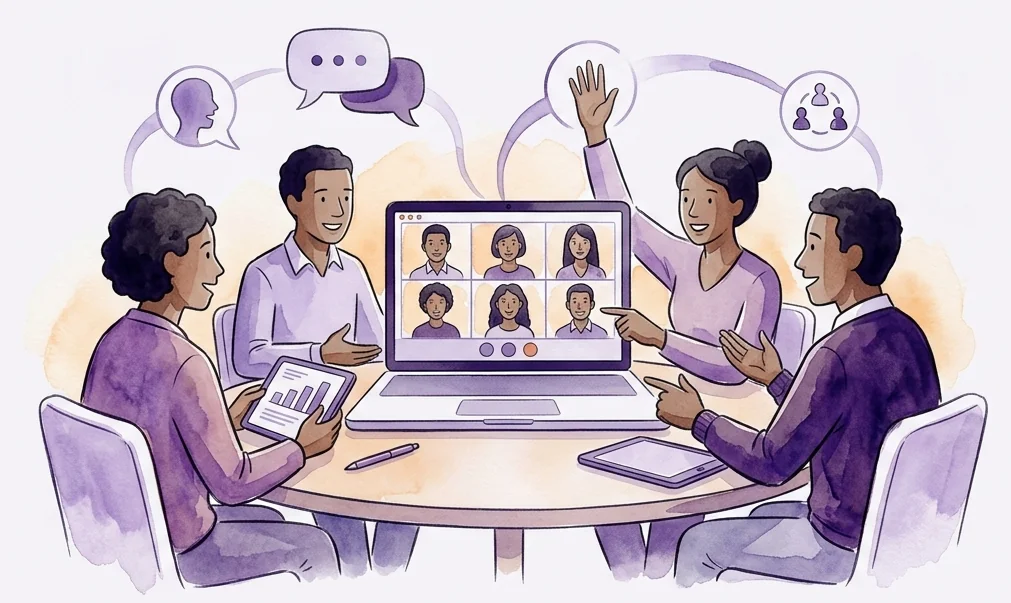
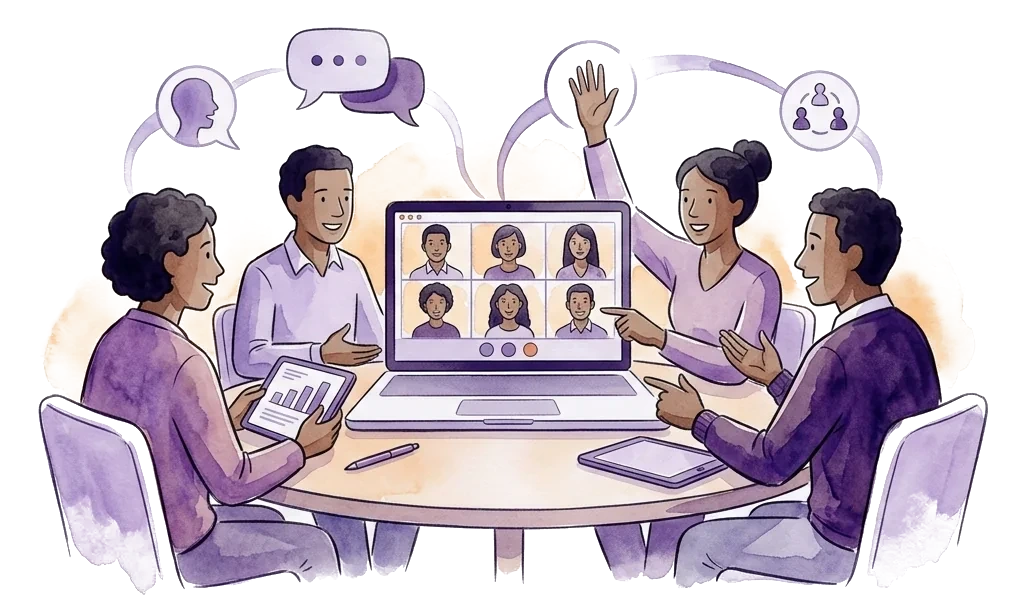
Fond unique des cartes Cours, illustration sans texte, Ashley, temoignages entiers
- Cours & tarifs : le fond blanc des trois aquarelles est rendu transparent et le
  cadre reprend le violet des cartes, pour un fond unique de la photo jusque sous
  les boutons (demande client du 2026-10-08, nuancier joint). Sur mobile, le cadre
  suit desormais le rapport de l'image au lieu d'une hauteur fixe.
- Bandeau d'accueil : le mot « HOC » est efface de l'ecran du portable — le document
  de retours exige « aucun texte dans l'image » (demande 3). Zone recouverte par une
  bande propre de la meme barre laterale, teinte corrigee et bords fondus.
- Professeurs : Aina remplacee par Ashley, photo fournie par le client (id 21).
  Plus aucune fiche sans photo.
- A propos : plus de troncature a 7 lignes sur les temoignages. Celui de Stephane
  Rakotonjanahary s'arretait avant « to the next level. ». Grille en alignement haut
  pour que chaque carte garde sa hauteur reelle.

diff --git a/src/index.css b/src/index.css
@@ -1774,7 +1774,13 @@ body.sans-defilement {
   min-height: 0;
   border-radius: 2px;
   overflow: hidden;
-  background: rgba(255, 255, 255, 0.08);
+  /* Un seul fond du haut de la photo jusque sous les boutons (demande client du 2026-10-08,
+     nuancier joint) : le cadre de l'illustration portait un voile blanc translucide et les trois
+     aquarelles arrivaient avec leur propre fond blanc, ce qui découpait un bandeau clair en haut
+     de chaque carte. Le fond blanc des fichiers a été rendu transparent (remplissage connexe
+     depuis les bords, les blancs intérieurs — écrans, chemises — sont intacts) et le cadre reprend
+     exactement le violet de la carte : plus aucune rupture de couleur dans le bloc. */
+  background: var(--hoc-prune-carte);
 }
 .carte-cours-visuel img {
   position: absolute;
@@ -2007,6 +2013,13 @@ body.sans-defilement {
   gap: 10px;
   padding: 16px;
 }
+/* Témoignages affichés en entier : sans troncature, les textes vont de 2 à 10 lignes. Avec
+   l'étirement par défaut de `.grille-vue`, toute une rangée prenait la hauteur du plus long et
+   laissait de grands vides sous les courts. `start` laisse chaque carte à sa hauteur réelle — la
+   grille est décalée, ce qui est la mise en page habituelle d'un mur de témoignages. */
+.grille-temoignages {
+  align-items: start;
+}
 .etoiles-avis {
   font-size: 13px;
   letter-spacing: 2.5px;
@@ -2018,14 +2031,11 @@ body.sans-defilement {
   line-height: 1.6;
   font-style: italic;
   color: rgba(255, 255, 255, 0.88);
-  /* 18 vrais témoignages (2026-10-08) sont de longueur très inégale : le clamp garde des cartes
-     de hauteur comparable dans la grille plutôt que des trous béants à côté de pavés de texte.
-     Le texte complet reste dans le DOM (lu par les lecteurs d'écran, indexé), seul l'affichage
-     visuel est tronqué. */
-  display: -webkit-box;
-  -webkit-line-clamp: 7;
-  -webkit-box-orient: vertical;
-  overflow: hidden;
+  /* Aucune troncature (demande client du 2026-10-08). Un `-webkit-line-clamp: 7` égalisait la
+     hauteur des cartes, mais coupait les témoignages longs en plein milieu d'une phrase — celui
+     de Stéphane Rakotonjanahary s'arrêtait avant « to the next level. ». Un témoignage amputé
+     dessert la personne qui l'a écrit : il s'affiche désormais en entier, et c'est la grille qui
+     s'adapte (voir `.grille-temoignages`). */
 }
 .avatar-avis {
   width: 38px;
@@ -2357,7 +2367,7 @@ body.sans-defilement {
   object-fit: cover;
   object-position: center 18%;
 }
-/* Remplace la photo quand aucune n'est encore disponible (ex. Aina, 2026-10-08) : mêmes
+/* Remplace la photo quand aucune n'est encore disponible : mêmes
    dimensions que .photo-membre-equipe (hérite du cercle, de la bordure et de l'ombre du parent),
    juste rempli d'initiales au lieu d'une image. */
 .initiales-membre-equipe {
@@ -2731,7 +2741,9 @@ body.sans-defilement {
   }
   .carte-cours-visuel {
     flex: none;
-    height: 200px;
+    /* `auto` et non une hauteur fixe : avec `aspect-ratio`, le cadre suit la largeur de la carte,
+       donc l'illustration n'est jamais rognée sur mobile. */
+    height: auto;
   }
 }
 

diff --git a/src/components/landing/VuesPubliques.tsx b/src/components/landing/VuesPubliques.tsx
@@ -248,8 +248,9 @@ export function VueAvis({ dossierAssets }: { dossierAssets: string }) {
       <h3 className="titre-bloc-temoignages">Témoignages de nos stagiaires</h3>
 
       {/* Pas de limite d'affichage : rien dans le document de retours du 2026-10-08 (demande 13)
-          n'impose un nombre maximal de témoignages visibles — les 18 s'affichent d'un coup. */}
-      <div className="grille-vue">
+          n'impose un nombre maximal de témoignages visibles — les 18 s'affichent d'un coup, et
+          chacun en entier (plus de troncature à 7 lignes depuis le 2026-10-08). */}
+      <div className="grille-vue grille-temoignages">
         {TEMOIGNAGES.map((temoignage) => (
           <article key={temoignage.id} className="carte-hoc carte-avis">
             <div className="entete-carte-avis">
@@ -648,9 +649,9 @@ function PortraitMembre({
           loading="lazy"
         />
       ) : (
-        /* Pas encore de photo exploitable pour cette personne (cas d'Aina, 2026-10-08 : le
-           fichier transmis par le client n'est pas un portrait) — avatar à initiales en
-           attendant, plutôt qu'une photo manquante cassée. */
+        /* Filet de sécurité quand une fiche n'a pas encore de photo exploitable : avatar à
+           initiales plutôt qu'une image cassée. Plus personne n'est dans ce cas depuis l'arrivée
+           de la photo d'Ashley (2026-10-08), mais la règle reste pour les prochaines arrivées. */
         <span className="initiales-membre-equipe" aria-hidden="true">
           {initialesDe(membre.nom ?? membre.role)}
         </span>
@@ -677,9 +678,9 @@ function PortraitMembre({
    — 4 nouvelles professeures/professeurs d'anglais ajoutés (Miangaly, Raissa, Aina, Rado), fournis
      par le client dans le même dossier. Slogans inventés (demande client explicite, même ton que
      les rôles déjà précisés) ; rôle genré selon la personne sur la photo. Le fichier transmis pour
-     Aina n'est pas un portrait (icône de coffre-fort) : `id` reste absent pour elle (demande
-     client du 2026-10-08 : l'afficher quand même, avec un avatar à initiales en attendant la
-     vraie photo — voir le rendu conditionnel dans `VueProfesseurs`).
+     Aina n'était pas un portrait (icône de coffre-fort) ; le client l'a remplacée par Ashley le
+     2026-10-08 et a fourni sa photo, désormais sous l'id 21 — plus personne n'est affiché sans
+     photo.
 
    Photo d'id 16 (Harinjo) remplacée le 2026-10-08 (demande 12 du document de retours) par le
    fichier « FONDATRICE.jpg » fourni par le client : recadrée en buste pour exclure le filigrane
@@ -765,7 +766,9 @@ const EQUIPE_PEDAGOGIQUE: {
     slogan: 'Dynamique et bienveillant, il pousse chaque élève à oser parler, erreurs comprises, pour progresser plus vite.',
   },
   {
-    nom: 'Aina',
+    // Remplace Aina le 2026-10-08, à la demande du client, photo fournie dans la foulée.
+    id: 21,
+    nom: 'Ashley',
     role: 'Professeure d’anglais',
     niveau: 4,
     slogan: 'Appliquée et chaleureuse, elle prend le temps de comprendre l’objectif de chaque élève avant de tracer son parcours.',
